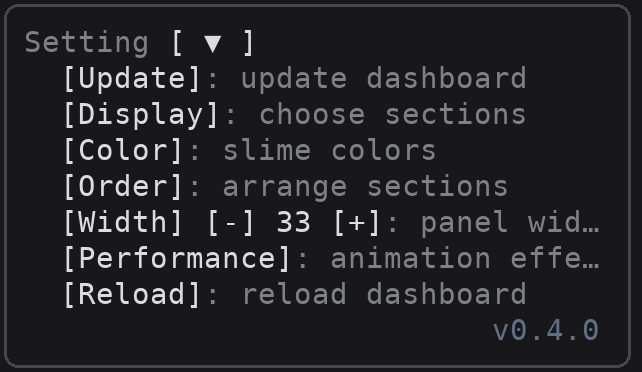
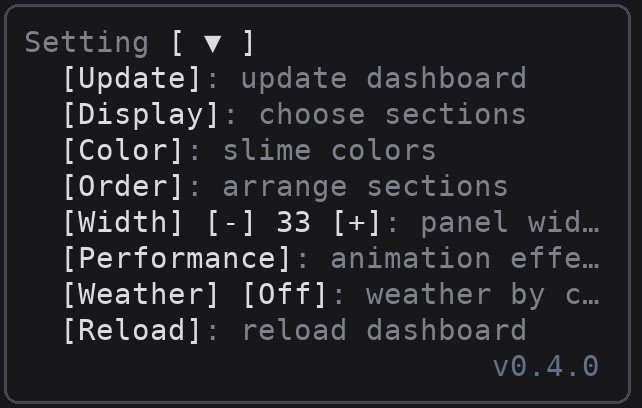
Weather by the clock unless Setting's Weather is On (wttr.in)
wttr.in places the machine by its IP address, so it is now off unless
chosen: Setting's [Weather] [Off] / [On], kept across sessions. Off, day
runs 06:00 to 18:00 by this computer's clock and each hour draws its sky
at random, the same draw for every window in that hour: clear 40%,
partly 28%, cloudy 18%, rain 10%, snow 4%. On, wttr.in is read as before.

diff --git a/hooks/register.tsx b/hooks/register.tsx
@@ -22,7 +22,7 @@ import { VERSION } from './version'
 import { cacheKept, returnVerdict, WARM_PROMPT, warmStep } from './warming'
 import { addToDay, dayKey, journalFrom, pingPays, READ_COST, rewriteCost, summaryOf } from './journal'
 import type { Day } from './journal'
-import { DEFAULT_WEATHER, parseWeather, WEATHER_URL, weatherNow } from './weather'
+import { DEFAULT_WEATHER, localWeather, parseWeather, WEATHER_URL, weatherNow } from './weather'
 import type { SlimeMinion, SlimeRecentSession, SlimeWeather } from '../types'
 
 const PANE = 'slime-dashboard'
@@ -249,6 +249,13 @@ const HIDDEN_KEY = 'hidden'
 const COLORS_KEY = 'colors'
 const ORDER_KEY = 'order'
 const WIDTH_KEY = 'width'
+// Setting's Weather: whether the sky is read from wttr.in, which places the
+// machine by its IP address. Off unless chosen, kept across sessions; off, the
+// sky follows this computer's clock and draws its weather by the hour.
+const LIVE_WEATHER_KEY = 'liveWeather'
+const liveWeatherAtom = atom({ plugin: 'slime-dashboard', key: 'liveWeather' } as const, false)
+let liveWeather = false
+
 // Setting's Performance, kept across sessions.
 const PERF_KEY = 'performance'
 const perfAtom = atom({ plugin: 'slime-dashboard', key: 'performance' } as const, 'high' as Perf)
@@ -712,6 +719,10 @@ async function dropGone($: EngineInterface) {
 // Answers what it read, or why it read nothing, for `/slime-dashboard weather`.
 let retryPending = false
 async function refreshWeather($: EngineInterface): Promise<string> {
+  if (!liveWeather) {
+    const next = await localSky($)
+    return `Weather: ${next.day ? 'day' : 'night'}, ${next.sky} (from this computer's clock; Setting's Weather is Off).`
+  }
   let why: string
   try {
     // wttr.in answers a browser with a page; asked as curl, with the line alone.
@@ -735,6 +746,25 @@ async function refreshWeather($: EngineInterface): Promise<string> {
     })
   }
   return `Weather: could not read wttr.in (${why}); the sky stays as it was and tries again in two minutes.`
+}
+
+// The sky without wttr.in, kept when it changed: day or night by this
+// computer's clock, the hour's weather drawn.
+async function localSky($: EngineInterface) {
+  const next = localWeather(await $.clock.now(), tzOffset ?? 0)
+  if (next.day !== weather.day || next.sky !== weather.sky || weather.rise !== undefined) {
+    weather = next
+    await update($, weatherAtom, () => next)
+  }
+  return weather
+}
+
+// Setting's Weather: on, the sky is read from it at once; off, the clock's.
+async function setLiveWeather($: EngineInterface, on: boolean) {
+  liveWeather = on
+  await update($, liveWeatherAtom, () => on)
+  await $.store.set(LIVE_WEATHER_KEY, on)
+  await refreshWeather($)
 }
 
 // A session between models (as /clear passes) names none for a moment: the
@@ -1144,6 +1174,8 @@ export const register: Register = on => {
     minions = (await read($, minionsAtom)).filter(m => !m.done)
     await update($, minionsAtom, () => minions)
     weather = await read($, weatherAtom)
+    liveWeather = (await $.store.get(LIVE_WEATHER_KEY)) === true
+    await update($, liveWeatherAtom, () => liveWeather)
     vitals = await read($, vitalsAtom)
     await refreshModel($)
     await refreshVitals($)
@@ -1160,9 +1192,9 @@ export const register: Register = on => {
       await update($, widthAtom, () => Math.max(MIN_COLUMNS, Math.min(MAX_COLUMNS, widthKept)))
     }
     void openPane($)
-    void readLocalZone($)
+    // The zone first: the clock's sky reads the hour in it.
+    void readLocalZone($).then(() => refreshWeather($))
     void readSessionTitle($)
-    void refreshWeather($)
     $.clock.every(WEATHER_MS, () => refreshWeather($))
     // GitHub is asked for a newer dashboard once a load: at session start and
     // at each reload.
@@ -1183,8 +1215,10 @@ export const register: Register = on => {
         await refreshModel($)
         await refreshVitals($)
       }
-      // Once a minute, day or night moves on from the last read's sunrise and sunset.
-      if (tick % 600 === 0) {
+      // Once a minute, day or night moves on from the last read's sunrise and
+      // sunset; without wttr.in, the clock's sky (a new hour, a new draw).
+      if (tick % 600 === 0 && !liveWeather) await localSky($)
+      else if (tick % 600 === 0) {
         const moved = weatherNow(weather, await $.clock.now())
         if (moved !== weather) {
           weather = moved
@@ -1384,6 +1418,7 @@ export const register: Register = on => {
     const colors = await read($, colorsAtom)
     setColors(colors)
     const perfLevel = await read($, perfAtom)
+    const liveWeatherOn = await read($, liveWeatherAtom)
     setPerformance(perfLevel)
     const perfOpen = await read($, perfOpenAtom)
     const colorOpen = await read($, colorOpenAtom)
@@ -1590,6 +1625,11 @@ export const register: Register = on => {
                 <Text dimColor>: animation effect</Text>
               </Box>
             )}
+            <Box flexDirection="row" marginLeft={2}>
+              <Text>{'[Weather] '}</Text>
+              <Button key="weather-live" label={liveWeatherOn ? '[On]' : '[Off]'} plain onPress={() => setLiveWeather($, !liveWeatherOn)} />
+              <Text dimColor>{liveWeatherOn ? ': real weather from wttr.in' : ': weather by clock'}</Text>
+            </Box>
             <Box flexDirection="row" marginLeft={2}>
               <Button key="reload" label="[Reload]" plain onPress={() => reloadDashboard($)} />
               <Text dimColor>: reload dashboard</Text>

diff --git a/hooks/scene.test.ts b/hooks/scene.test.ts
@@ -2,7 +2,7 @@ import { expect, test } from 'claude-code/testing'
 
 import { EMERGE_TICKS, frame, setPerformance, RESPAWN, RESPAWN_COLORS, respawnLength, GOO_COLORS, goos, modelInfo, partyFrame, partyLength, rockLift, ROWS, scattered, step, treeKind } from './scene'
 import type { Offsets } from './scene'
-import { parseWeather, weatherNow } from './weather'
+import { LOCAL_RISE, LOCAL_SET, localWeather, parseWeather, SKY_ODDS, skyForHour, weatherNow } from './weather'
 
 const fresh = (): Offsets => ({ cloud: 0, bird: 0, tree: 0, rock: 0, ground: 0 })
 
@@ -56,6 +56,28 @@ test('slimes leap over rocks with one pixel to spare', async () => {
   expect(rockLift(10, 6, [6])).toBe(2) // one column behind: landing
   expect(rockLift(10, 6, [5])).toBe(1)
   expect(rockLift(10, 6, [20])).toBe(0) // far away: normal hop
+})
+
+test('weather without wttr.in: day by the clock, a sky drawn each hour', async () => {
+  // 05:59 is night, 06:00 day, 17:59 day, 18:00 night, in the zone given.
+  const at = (h: number, m: number) => Date.UTC(2026, 9, 9, h, m)
+  expect(localWeather(at(5, 59), 0).day).toBe(false)
+  expect(localWeather(at(6, 0), 0).day).toBe(true)
+  expect(localWeather(at(17, 59), 0).day).toBe(true)
+  expect(localWeather(at(18, 0), 0).day).toBe(false)
+  expect(localWeather(at(22, 0), 8 * 60).day).toBe(true) // 06:00 at +0800
+  expect(LOCAL_RISE).toBeLessThan(LOCAL_SET)
+  // The same hour draws the same sky; the whole hour keeps it.
+  expect(localWeather(at(10, 5), 0).sky).toBe(localWeather(at(10, 55), 0).sky)
+  expect(skyForHour(123_456)).toBe(skyForHour(123_456))
+  // Over many hours each sky comes up, fair weather most, snow least.
+  const seen = new Map<string, number>()
+  for (let h = 0; h < 20_000; h++) seen.set(skyForHour(h), (seen.get(skyForHour(h)) ?? 0) + 1)
+  const share = (sky: string) => (seen.get(sky) ?? 0) / 20_000
+  for (const [sky, w] of SKY_ODDS) expect(Math.abs(share(sky) - w / 100)).toBeLessThan(0.02)
+  expect(share('clear')).toBeGreaterThan(share('partly'))
+  expect(share('rain')).toBeGreaterThan(share('snow'))
+  expect(share('snow')).toBeGreaterThan(0)
 })
 
 test('weather: wttr.in reply to day or night and a sky', async () => {

diff --git a/hooks/weather.ts b/hooks/weather.ts
@@ -48,3 +48,43 @@ export function weatherNow(w: Weather, now: number): Weather {
   const day = minute >= w.rise && minute < w.set
   return day === w.day ? w : { ...w, day }
 }
+
+// Without wttr.in (Setting's default, so no address leaves the machine): day
+// from this computer's clock, 06:00 to 18:00, and each hour a sky drawn at
+// random, fair weather most often, the extremes now and then but never ruled out.
+export const LOCAL_RISE = 6 * 60
+export const LOCAL_SET = 18 * 60
+export const SKY_ODDS: readonly (readonly [Sky, number])[] = [
+  ['clear', 40],
+  ['partly', 28],
+  ['cloudy', 18],
+  ['rain', 10],
+  ['snow', 4],
+]
+
+// A number in [0, 1) for the hour, the same each time it is asked: every
+// window, and every reload in that hour, draws the same sky.
+function roll(hour: number): number {
+  let h = Math.imul(hour ^ 0x9e3779b9, 0x85ebca6b)
+  h = Math.imul(h ^ (h >>> 13), 0xc2b2ae35)
+  h ^= h >>> 16
+  return (h >>> 0) / 2 ** 32
+}
+
+// The sky for one hour (hours since the epoch, in this computer's own time).
+export function skyForHour(hour: number): Sky {
+  const total = SKY_ODDS.reduce((n, [, w]) => n + w, 0)
+  let left = roll(hour) * total
+  for (const [sky, w] of SKY_ODDS) {
+    if (left < w) return sky
+    left -= w
+  }
+  return 'clear'
+}
+
+// The sky at `now`, `offset` minutes from UTC (this computer's zone).
+export function localWeather(now: number, offset: number): Weather {
+  const local = now + offset * 60_000
+  const minute = ((Math.floor(local / 60_000) % 1440) + 1440) % 1440
+  return { day: minute >= LOCAL_RISE && minute < LOCAL_SET, sky: skyForHour(Math.floor(local / 3_600_000)) }
+}

diff --git a/hooks/blocks.test.ts b/hooks/blocks.test.ts
@@ -264,8 +264,22 @@ test('/slime-dashboard weather reads the sky now, and says why when it cannot', 
   const weather = () =>
     $.command.run({ command: PLUGIN, args: 'weather', origin: { kind: 'composer' }, presentation: { isFullscreen: true, columns: 120 } })
 
-  expect((await weather()).text).toBe('Weather: night, cloudy (wttr.in said "mmm|05:50:42|17:38:27|00:39:17+0800").')
+  // Off by default: the clock's sky, and wttr.in never asked.
+  expect((await weather()).text).toMatch(/^Weather: (day|night), (clear|partly|cloudy|rain|snow) \(from this computer's clock; Setting's Weather is Off\)\.$/)
+  expect(agents).toEqual([])
+
+  // Setting's Weather [Off] turns it on (and reads it at once).
+  const ui = await $.ui.mount({ ...PANE, surface: 'terminal' })
+  await ui.press({ key: 'settings-toggle' })
+  expect((await ui.find({ key: 'weather-live' }))?.text).toBe('[Off]')
+  await ui.press({ key: 'weather-live' })
+  expect((await ui.find({ key: 'weather-live' }))?.text).toBe('[On]')
+  await ui.press({ key: 'settings-toggle' })
+  await ui.unmount()
   expect(agents).toEqual(['curl/8'])
+
+  expect((await weather()).text).toBe('Weather: night, cloudy (wttr.in said "mmm|05:50:42|17:38:27|00:39:17+0800").')
+  expect(agents).toEqual(['curl/8', 'curl/8'])
 
   reply = { status: 503, ok: false, text: 'busy' }
   expect((await weather()).text).toContain('could not read wttr.in (HTTP 503)')

diff --git a/types/index.d.ts b/types/index.d.ts
@@ -41,6 +41,7 @@ declare module 'claude-code' {
       recentSessions: SlimeRecentSession[]
       respawnConfirm: boolean
       performance: 'high' | 'mid' | 'low'
+      liveWeather: boolean
       perfOpen: boolean
       waiting: boolean
       skills: SlimeSkill[]

diff --git a/tools/pictures.py b/tools/pictures.py
@@ -280,6 +280,7 @@ def setting_rows():
         [run('  [Order]'), run(': arrange sections', DIM)],
         [run('  [Width] [-] 33 [+]'), run(': panel width', DIM)],
         [run('  [Performance]'), run(': animation effect', DIM)],
+        [run('  [Weather] [Off]'), run(': weather by clock', DIM)],
         [run('  [Reload]'), run(': reload dashboard', DIM)],
     ) + [(version(), None)]
 

diff --git a/README.md b/README.md
@@ -37,7 +37,7 @@ The sign is also a button. Pressed, it opens a field under it; type a new name a
 - **Its face**: walking with CP at 50% it squints (`> <`), at 70% a `#` shows beside its head, at 90% it is in tears (`T T`). Out of HP or MP it stops with `x` eyes until a limit resets and thinks of the potion it needs: a small dot rises beside its head, then a bigger one, then a thought bubble at its upper left holding blue mana for MP or red health for HP, and around again.
 - **Unloading**: while the context compacts (`[Unload]`, `/compact`, or automatically) it wakes up if asleep and sets its load down until the compaction ends: every few beats its body flashes white and it spits the goo it ate back out of its back in a spray of colored blocks, and green `↓` arrows fall beside it.
 - **Subagents**: each one buds off a little slime in its model's color that follows it. When the work is done the troop finds a treasure chest.
-- **Weather**: the sky follows day or night and the weather where you are, read from [wttr.in](https://wttr.in) every hour, with day turning to night at sunset in between (wttr.in places you by your IP address). Moon, stars and birds hide under an overcast sky.
+- **Weather**: by default the sky follows this computer's clock, day from 06:00 to 18:00, and each hour draws its weather at random: clear or partly cloudy most often, cloudy less, rain now and then, snow rarely. Nothing leaves the machine for it. Turning Setting's `[Weather]` to `[On]` reads the real weather where you are from [wttr.in](https://wttr.in) every hour instead, with day turning to night at sunset in between (wttr.in places you by your IP address, which is why it is off unless you choose it). Moon, stars and birds hide under an overcast sky.
 - **Model buttons** `■:Haiku ■:Sonnet ■:Opus ■:Fable` switch the session's model (`/model haiku`, …): each family's newest model.
 
 | Asleep | Waiting on you |
@@ -135,7 +135,7 @@ What the cache did, kept on this computer for thirty days across sessions. `▼ 
 
 ## Setting
 
-<img src="docs/setting.png" width="340" alt="Setting open: Update, Display, Color, Order, Width and Reload, then the version">
+<img src="docs/setting.png" width="340" alt="Setting open: Update, Display, Color, Order, Width, Performance, Weather (Off) and Reload, then the version">
 
 | Button | What it does |
 | --- | --- |
@@ -145,6 +145,7 @@ What the cache did, kept on this computer for thirty days across sessions. `▼ 
 | `[Order]` | Opens a rounded box listing the sections top to bottom; each row's `[▲]` / `[▼]` moves that section a place up or down in the pane. A hidden section keeps its place (dim in the list). The order is kept across sessions; `[Default]` puts the original order back. Setting always stays last. Pressed again, it closes the box. |
 | `[Width] [-] 33 [+]` | Makes the docked pane a column narrower or wider (24–80), kept across sessions. A width you dragged the dock to by hand wins over it. |
 | `[Performance]` | How much the scene draws, kept across sessions. Pressed, a rounded box opens with `[High][Mid][Low]`, the current one bright; picking one closes it. High draws everything. Mid draws about 30% fewer things along the way (trees, rocks, goo, clouds, birds) and half of Unload's spray and Respawn's motes; Low about half the things and 30% of the spray and motes. |
+| `[Weather] [Off]` | Off by default; pressed, it turns `[On]`, and pressed again back `[Off]`. On, the sky shows the real weather where you are, read from [wttr.in](https://wttr.in) every hour (it places you by your IP address); Off, day and night follow this computer's clock and the weather is drawn at random each hour. Kept across sessions. |
 | `[Reload]` | Reloads the dashboard (`/reload-plugins`), as saving its files would. |
 
 The plugin's version shows at the pane's foot.
@@ -160,7 +161,7 @@ Each section above can be hidden or moved with Setting's `[Display]` and `[Order
 /slime-dashboard add <skill> [--category <name>] [--desc <words>]
 /slime-dashboard remove <skill>
 /slime-dashboard list                              the Skill Box's skills, by category
-/slime-dashboard weather                           read the sky now, and say what came back
+/slime-dashboard weather                           read the sky now (wttr.in if Weather is On, else the clock), and say what came back
 ```
 
 Skills go in the Skill Box with `add`. Without `--category` a skill goes under **General**; `--desc` comes last and runs to the end of the line, drawn dim after the skill's name. Adding a skill again files it anew.
